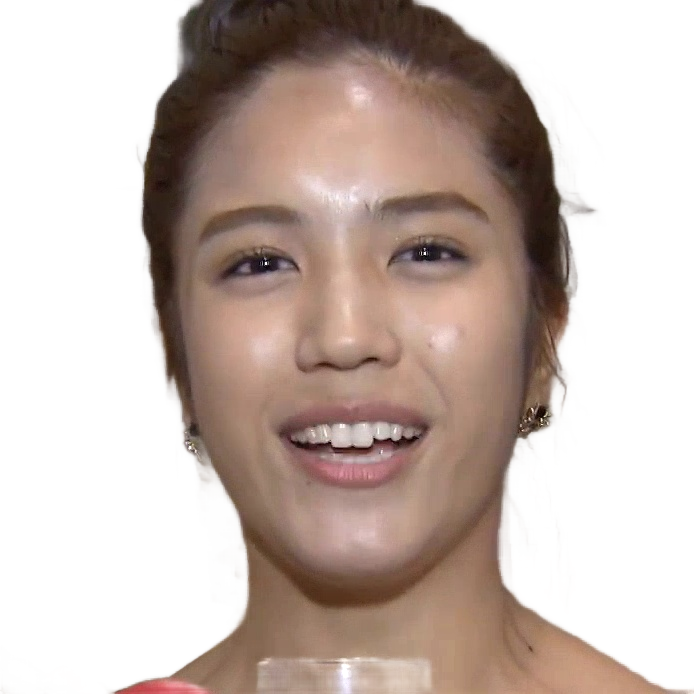
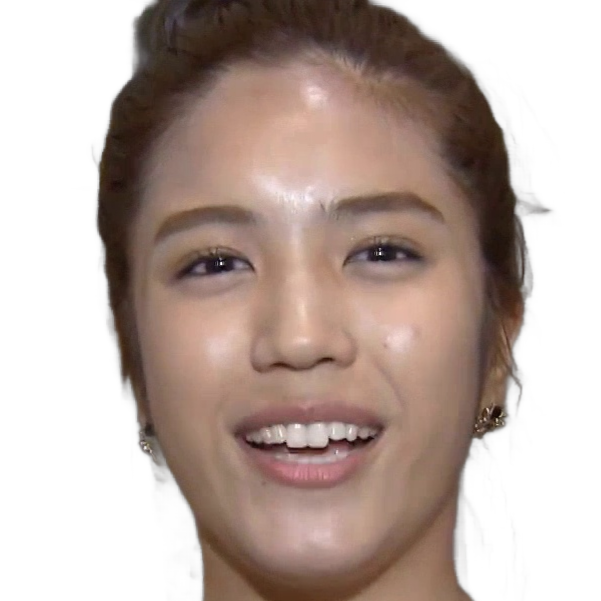
adding one cycle learning rate, also adding better test images

diff --git a/train_libre_flux.py b/train_libre_flux.py
@@ -6,6 +6,7 @@ import json
 import itertools
 import time
 import copy
+import math
 
 import matplotlib.pyplot as plt
 from matplotlib import patheffects as pe
@@ -31,7 +32,8 @@ from diffusers.training_utils import (
 )
 
                                                                                                                  
-import torch                                                                                                      
+import torch     
+import torch.optim.lr_scheduler as tls
 from torch.utils.data import Dataset                                                                              
 import os                                                                                                         
 import json                                                                                                       
@@ -262,6 +264,68 @@ def collate_fn(data):
         "drop_image_embeds": drop_image_embeds,
     }
 
+
+
+def build_cos(
+    optimizer,
+    warmup_num_steps: int,
+    cycle_first_step_size: int,
+    cycle_mult: int = 1,
+    floor_ratio: float = 0.1,
+    last_batch_iteration: int = -1,
+):
+    peak_lrs  = [g["lr"] for g in optimizer.param_groups]
+    floor_lrs = [lr * floor_ratio for lr in peak_lrs]
+
+    class CosineWithRestarts:  # no inheritance
+        def __init__(self):
+            self.opt       = optimizer
+            self.warmup    = warmup_num_steps
+            self.base_len  = cycle_first_step_size
+            self.mult      = max(1, cycle_mult)
+            self.peak_lrs  = peak_lrs
+            self.floor_lrs = floor_lrs
+            self.last_step = last_batch_iteration
+
+        def state_dict(self):
+            return {"last_step": self.last_step}
+
+        def load_state_dict(self, sd):
+            self.last_step = sd.get("last_step", -1)
+
+        def get_last_lr(self):
+            return [g["lr"] for g in self.opt.param_groups]
+
+        def step(self, step: int | None = None):
+            # 1) figure out the current global step
+            if step is None:
+                step = self.last_step + 1
+            self.last_step = step
+
+            # 2) compute lr for each param-group
+            if step < self.warmup:
+                k = step / max(1, self.warmup)
+                lrs = [f + (p - f) * k for p, f in zip(self.peak_lrs, self.floor_lrs)]
+            else:
+                step -= self.warmup
+                cycle_len = self.base_len
+                while step >= cycle_len:
+                    step -= cycle_len
+                    cycle_len *= self.mult
+                phase = 0.5 * (1 + math.cos(2 * math.pi * step / cycle_len))
+                lrs   = [f + (p - f) * phase for p, f in zip(self.peak_lrs, self.floor_lrs)]
+
+            # 3) apply to optimizer
+            for pg, lr in zip(self.opt.param_groups, lrs):
+                pg["lr"] = lr
+            return lrs
+
+    return CosineWithRestarts()
+
+def WarmupCosineRestartsLR(optimizer, **params):
+    return build_cos(optimizer, **params)
+
+tls.WarmupCosineRestartsLR = WarmupCosineRestartsLR
 
 def parse_args():
     parser = argparse.ArgumentParser(description="Simple example of a training script.")
@@ -583,7 +647,17 @@ def main():
 
     # optimizer
     optimizer = torch.optim.AdamW(ip_adapter.parameters(), lr=args.learning_rate, weight_decay=args.weight_decay)
-        
+  
+    # scheduler
+    scheduler = WarmupCosineRestartsLR(
+    optimizer,
+    warmup_num_steps=int(250),  # e.g. 5% of steps for warmup
+    cycle_first_step_size=int(args.val_steps),  # length of first cosine cycle
+    cycle_mult=1,          # keep cycles same length; tune if you like
+    floor_ratio=0.1,       # minimum lr = 10% of peak
+    last_batch_iteration=global_step,
+    )
+
     train_dataset = VFHQIpDataset(                                                                                  
         json_dir=args.data_root_path,                  
         face_size=args.ip_resolution,             
@@ -646,6 +720,7 @@ def main():
 
                 pixel_values = batch["images"]
                 ref_pixel_values = batch["face_images"]
+                current_lr = optimizer.param_groups[0]["lr"]
 
                 with torch.no_grad():
 
@@ -816,15 +891,25 @@ def main():
                 # Backpropagate
                 accelerator.backward(loss)
                 optimizer.step()
+                scheduler.step(global_step)
+
                 optimizer.zero_grad()
                 avg_loss = accelerator.gather(loss.repeat(args.train_batch_size)).mean().item()
 
                 if accelerator.is_main_process:
                     if global_step % 10 == 0:
-
-                        print("Epoch {}, epoch_step {} global_step {}, data_time: {}, time: {}, step_loss: {}".format(
-                            epoch, step, global_step, load_data_time, time.perf_counter() - begin, avg_loss))
-            
+                        print(
+                            "Epoch {}, epoch_step {} global_step {}, data_time: {}, time: {}, "
+                            "step_loss: {}, lr: {:.6f}".format(
+                                epoch,
+                                step,
+                                global_step,
+                                load_data_time,
+                                time.perf_counter() - begin,
+                                avg_loss,
+                                current_lr,
+                            )
+                        )
             ###############################################
             # Validation and Saving ( not multi gpu compatible )
             ###############################################    
